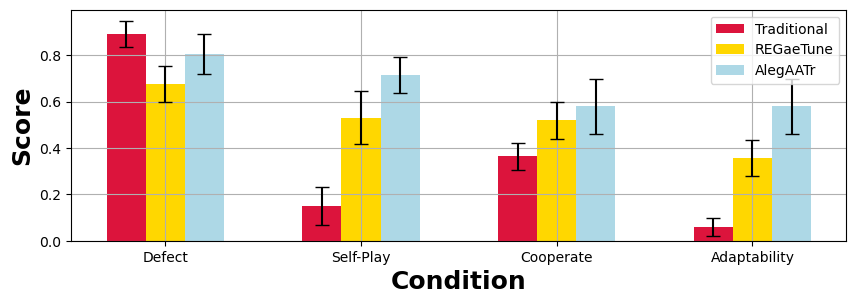
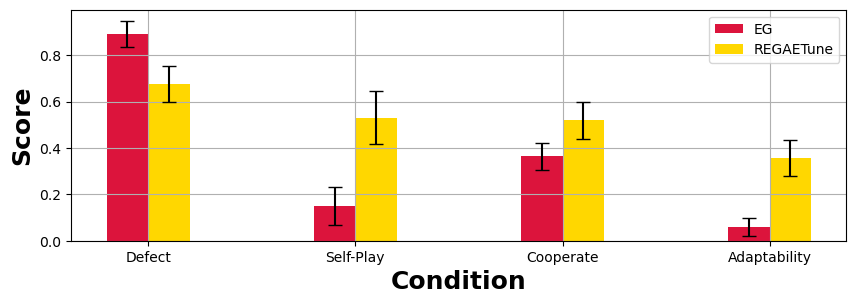
Script to calculate scores for every domain

diff --git a/simulations/adaptability_scores_all_domains.py b/simulations/adaptability_scores_all_domains.py
@@ -84,13 +84,12 @@ print(f'Self-play = {t_sp_avg}')
 print(f'Coop = {t_c_avg}')
 print(f'Adaptability = {t_a_avg}\n')
 
-algorithms = ['Traditional', 'REGaeTune', 'AlegAATr']
+algorithms = ['EG', 'REGAETune']
 conditions = ['Defect', 'Self-Play', 'Cooperate', 'Adaptability']
 df = pd.DataFrame(
     {
         algorithms[0]: [traditional_d_scores, traditional_sp_scores, traditional_c_scores, traditional_adapt_scores],
         algorithms[1]: [regaetune_d_scores, regaetune_sp_scores, regaetune_c_scores, regaetune_adapt_scores],
-        algorithms[2]: [alegaatr_d_scores, alegaatr_sp_scores, alegaatr_c_scores, alegaatr_adapt_scores]
     }
 )
 
@@ -110,11 +109,10 @@ x = np.arange(len(conditions))
 width = 0.2
 fig, ax = plt.subplots(figsize=(10, 3))
 plt.grid()
-bars1 = ax.bar(x - width, mean_values[:, 0], width, yerr=se_values[:, 0], label=algorithms[0], capsize=5,
+bars1 = ax.bar(x - width * 0.5, mean_values[:, 0], width, yerr=se_values[:, 0], label=algorithms[0], capsize=5,
                color='crimson')
-bars2 = ax.bar(x, mean_values[:, 1], width, yerr=se_values[:, 1], label=algorithms[1], capsize=5, color='gold')
-bars3 = ax.bar(x + width, mean_values[:, 2], width, yerr=se_values[:, 2], label=algorithms[2], capsize=5,
-               color='lightblue')
+bars2 = ax.bar(x + width * 0.5, mean_values[:, 1], width, yerr=se_values[:, 1], label=algorithms[1], capsize=5,
+               color='gold')
 ax.set_xlabel('Condition', fontsize=18, fontweight='bold')
 ax.set_ylabel('Score', fontsize=18, fontweight='bold')
 # ax.set_title('Algorithm Performance by Condition')
@@ -254,6 +252,75 @@ ax.set_xticks(x)
 ax.set_xticklabels(conditions)
 ax.legend()
 plt.savefig('../simulations/scores_by_feature_set.png', bbox_inches='tight')
+plt.clf()
+
+# ----------------------------------------------------------------------------------------------------------------------
+# ----------------------------------------------------------------------------------------------------------------------
+# ----------------------------------------------------------------------------------------------------------------------
+
+# ----------------------------------------------------------------------------------------------------------------------
+# AlegAATr vs. other REGAETune algorithms
+# ----------------------------------------------------------------------------------------------------------------------
+regae_aat_d_scores = [regaetune_d_scores[1], regaetune_d_scores[4], regaetune_d_scores[7]]
+regae_aat_sp_scores = [regaetune_sp_scores[1], regaetune_sp_scores[4], regaetune_sp_scores[7]]
+regae_aat_c_scores = [regaetune_c_scores[1], regaetune_c_scores[4], regaetune_c_scores[7]]
+regae_aat_a_scores = [regaetune_adapt_scores[1], regaetune_adapt_scores[4], regaetune_adapt_scores[7]]
+
+algs = ['REGAE-AAT', 'AlegAATr']
+conditions = ['Defect', 'Self-Play', 'Cooperate', 'Adaptability']
+df = pd.DataFrame(
+    {
+        algs[0]: [raw_d_scores, raw_sp_scores, raw_c_scores, raw_a_scores],
+        algs[1]: [alegaatr_d_scores, alegaatr_sp_scores, alegaatr_c_scores, alegaatr_adapt_scores],
+    }
+)
+stats = {a: calculate_stats(df[a]) for a in algs}
+for a in algs:
+    df[f'{a}_mean'], df[f'{a}_se'] = stats[a]
+mean_values = df[[f'{a}_mean' for a in algs]].values
+se_values = df[[f'{a}_se' for a in algs]].values
+x = np.arange(len(conditions))
+width = 0.2
+fig, ax = plt.subplots(figsize=(10, 3))
+plt.grid()
+bars1 = ax.bar(x - width * 0.5, mean_values[:, 0], width, yerr=se_values[:, 0], label=algs[0], capsize=5,
+               color='purple')
+bars2 = ax.bar(x + width * 0.5, mean_values[:, 1], width, yerr=se_values[:, 1], label=algs[1], capsize=5,
+               color='lightgreen')
+ax.set_xlabel('Condition', fontsize=18, fontweight='bold')
+ax.set_ylabel('Score', fontsize=18, fontweight='bold')
+ax.set_xticks(x)
+ax.set_xticklabels(conditions)
+ax.legend()
+plt.savefig('../simulations/alegaatr_vs_regaeaat.png', bbox_inches='tight')
+plt.clf()
+
+algs = ['REGAETune', 'AlegAATr']
+conditions = ['Defect', 'Self-Play', 'Cooperate', 'Adaptability']
+df = pd.DataFrame(
+    {
+        algs[0]: [regaetune_d_scores, regaetune_sp_scores, regaetune_c_scores, regaetune_adapt_scores],
+        algs[1]: [alegaatr_d_scores, alegaatr_sp_scores, alegaatr_c_scores, alegaatr_adapt_scores],
+    }
+)
+stats = {a: calculate_stats(df[a]) for a in algs}
+for a in algs:
+    df[f'{a}_mean'], df[f'{a}_se'] = stats[a]
+mean_values = df[[f'{a}_mean' for a in algs]].values
+se_values = df[[f'{a}_se' for a in algs]].values
+x = np.arange(len(conditions))
+width = 0.2
+fig, ax = plt.subplots(figsize=(10, 3))
+plt.grid()
+bars1 = ax.bar(x - width * 0.5, mean_values[:, 0], width, yerr=se_values[:, 0], label=algs[0], capsize=5, color='gold')
+bars2 = ax.bar(x + width * 0.5, mean_values[:, 1], width, yerr=se_values[:, 1], label=algs[1], capsize=5,
+               color='lightgreen')
+ax.set_xlabel('Condition', fontsize=18, fontweight='bold')
+ax.set_ylabel('Score', fontsize=18, fontweight='bold')
+ax.set_xticks(x)
+ax.set_xticklabels(conditions)
+ax.legend()
+plt.savefig('../simulations/alegaatr_vs_regaetune.png', bbox_inches='tight')
 plt.clf()
 
 # ----------------------------------------------------------------------------------------------------------------------
